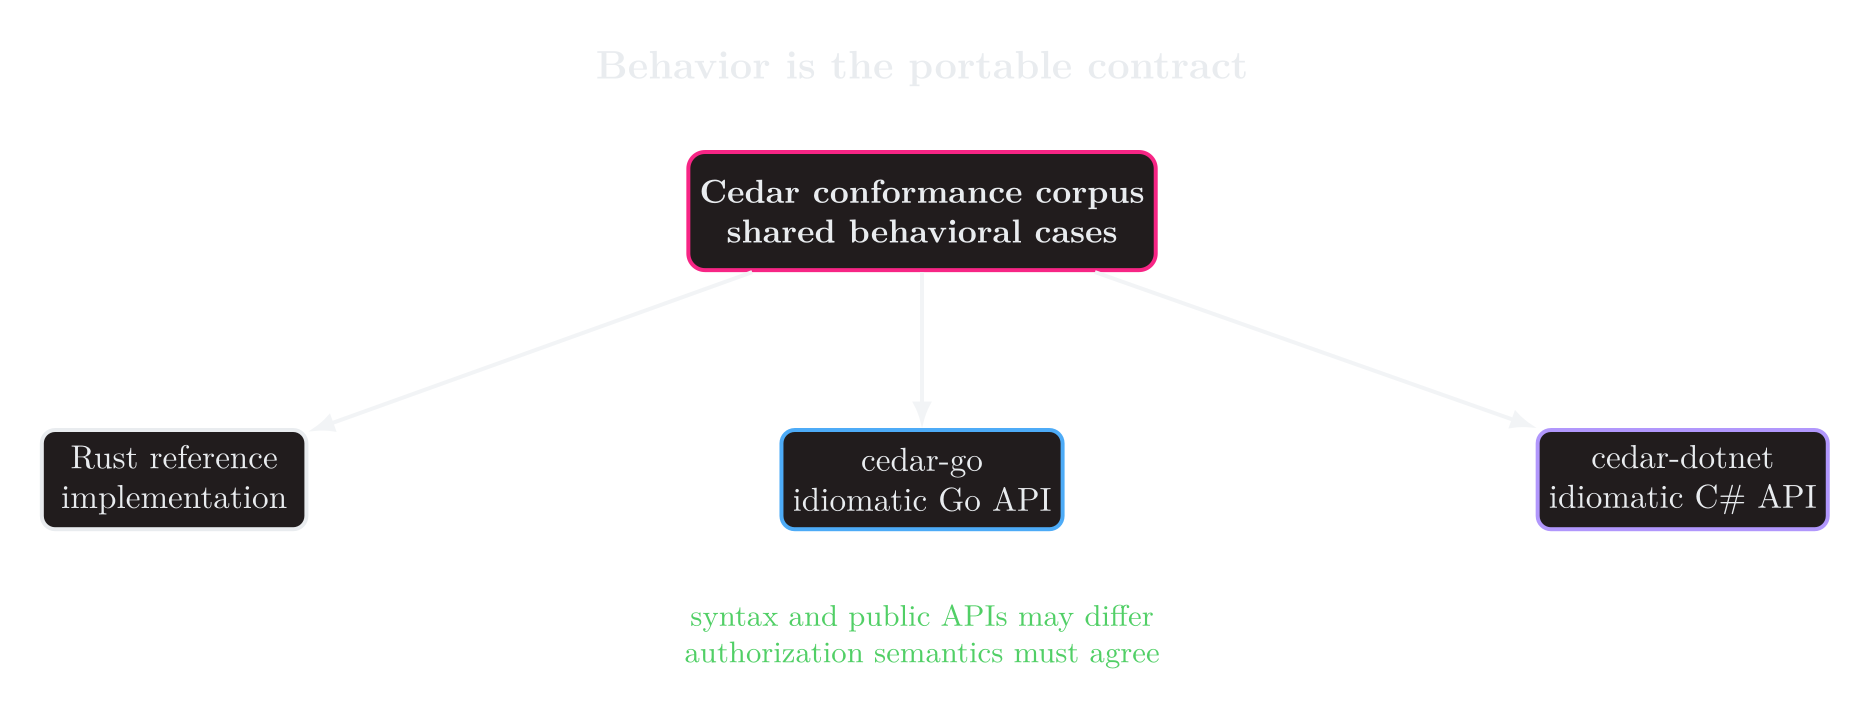
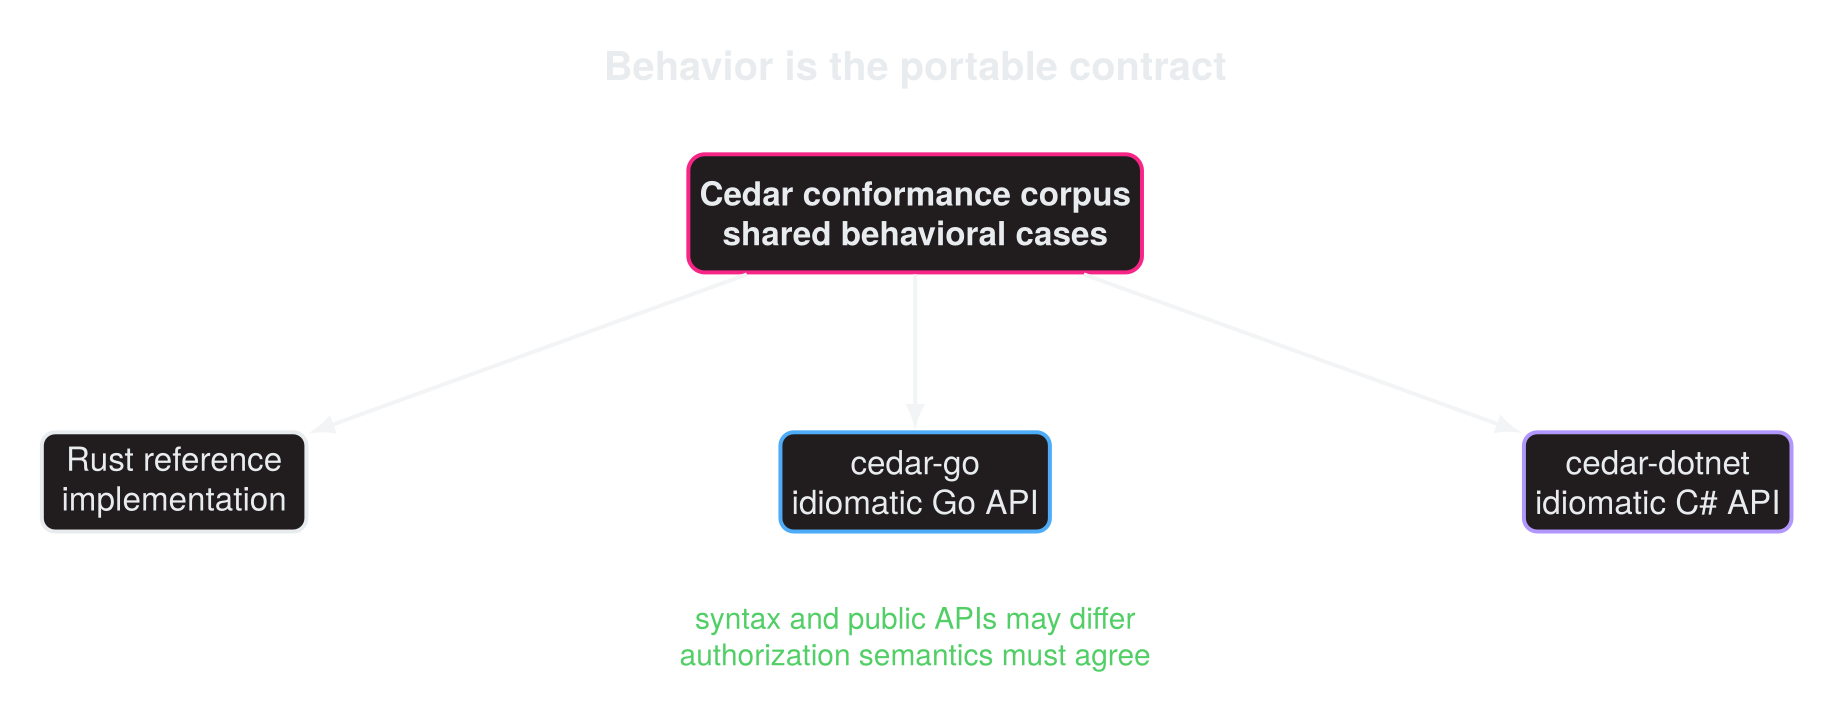
chore: align diagram typography and CI triggers

diff --git a/assets/diagrams/degradation/degradation-vs-promotion.tex b/assets/diagrams/degradation/degradation-vs-promotion.tex
@@ -1,4 +1,5 @@
 \documentclass[tikz,border=12pt]{standalone}
+\input{../site-font}
 \usetikzlibrary{arrows.meta,positioning}
 \definecolor{pink}{HTML}{F72585}\definecolor{green}{HTML}{51CF66}\definecolor{amber}{HTML}{FCC419}
 \definecolor{red}{HTML}{FF6B6B}\definecolor{blue}{HTML}{4DABF7}\definecolor{ink}{HTML}{E9ECEF}\definecolor{panel}{HTML}{211C1D}

diff --git a/assets/diagrams/cedar/conformance.tex b/assets/diagrams/cedar/conformance.tex
@@ -1,4 +1,5 @@
 \documentclass[tikz,border=12pt]{standalone}
+\input{../site-font}
 \usetikzlibrary{arrows.meta,positioning}
 \definecolor{pink}{HTML}{F72585}\definecolor{blue}{HTML}{4DABF7}\definecolor{green}{HTML}{51CF66}\definecolor{violet}{HTML}{B197FC}\definecolor{ink}{HTML}{E9ECEF}\definecolor{panel}{HTML}{211C1D}
 \begin{document}

diff --git a/assets/diagrams/mixology/lesson-map.tex b/assets/diagrams/mixology/lesson-map.tex
@@ -1,4 +1,5 @@
 \documentclass[tikz,border=12pt]{standalone}
+\input{../site-font}
 \usetikzlibrary{arrows.meta,positioning}
 \definecolor{pink}{HTML}{F72585}\definecolor{blue}{HTML}{4DABF7}\definecolor{green}{HTML}{51CF66}\definecolor{violet}{HTML}{B197FC}\definecolor{ink}{HTML}{E9ECEF}\definecolor{panel}{HTML}{211C1D}
 \begin{document}

diff --git a/assets/diagrams/columnar-pipeline/snapshot-flow.tex b/assets/diagrams/columnar-pipeline/snapshot-flow.tex
@@ -1,4 +1,5 @@
 \documentclass[tikz,border=12pt]{standalone}
+\input{../site-font}
 \usetikzlibrary{arrows.meta,positioning,fit}
 \definecolor{pink}{HTML}{F72585}\definecolor{blue}{HTML}{4DABF7}\definecolor{green}{HTML}{51CF66}
 \definecolor{amber}{HTML}{FCC419}\definecolor{ink}{HTML}{E9ECEF}\definecolor{panel}{HTML}{211C1D}

diff --git a/assets/diagrams/illegal-states/state-space.tex b/assets/diagrams/illegal-states/state-space.tex
@@ -1,4 +1,5 @@
 \documentclass[tikz,border=12pt]{standalone}
+\input{../site-font}
 \usetikzlibrary{arrows.meta,positioning}
 \definecolor{pink}{HTML}{F72585}\definecolor{green}{HTML}{51CF66}\definecolor{red}{HTML}{FF6B6B}
 \definecolor{blue}{HTML}{4DABF7}\definecolor{ink}{HTML}{E9ECEF}\definecolor{panel}{HTML}{211C1D}

diff --git a/assets/diagrams/linear-algebra/dimensions.tex b/assets/diagrams/linear-algebra/dimensions.tex
@@ -1,4 +1,5 @@
 \documentclass[tikz,border=12pt]{standalone}
+\input{../site-font}
 \usetikzlibrary{arrows.meta,positioning}
 \definecolor{pink}{HTML}{F72585}\definecolor{blue}{HTML}{4DABF7}\definecolor{green}{HTML}{51CF66}
 \definecolor{red}{HTML}{FF6B6B}\definecolor{ink}{HTML}{E9ECEF}\definecolor{panel}{HTML}{211C1D}

diff --git a/assets/diagrams/actions/action-states.tex b/assets/diagrams/actions/action-states.tex
@@ -1,4 +1,5 @@
 \documentclass[tikz,border=12pt]{standalone}
+\input{../site-font}
 \usetikzlibrary{arrows.meta,positioning}
 \definecolor{pink}{HTML}{F72585}\definecolor{green}{HTML}{51CF66}\definecolor{gray}{HTML}{ADB5BD}\definecolor{ink}{HTML}{E9ECEF}\definecolor{panel}{HTML}{211C1D}
 \begin{document}

diff --git a/assets/diagrams/fluid/staggered-grid.tex b/assets/diagrams/fluid/staggered-grid.tex
@@ -1,4 +1,5 @@
 \documentclass[tikz,border=12pt]{standalone}
+\input{../site-font}
 \usetikzlibrary{arrows.meta,positioning}
 \definecolor{pink}{HTML}{F72585}\definecolor{blue}{HTML}{4DABF7}\definecolor{green}{HTML}{51CF66}\definecolor{ink}{HTML}{E9ECEF}\definecolor{panel}{HTML}{211C1D}
 \begin{document}

diff --git a/assets/diagrams/linux/filesystem-tree.tex b/assets/diagrams/linux/filesystem-tree.tex
@@ -1,4 +1,5 @@
 \documentclass[tikz,border=12pt]{standalone}
+\input{../site-font}
 \usetikzlibrary{arrows.meta,positioning}
 \definecolor{pink}{HTML}{F72585}\definecolor{blue}{HTML}{4DABF7}\definecolor{green}{HTML}{51CF66}\definecolor{ink}{HTML}{E9ECEF}\definecolor{panel}{HTML}{211C1D}
 \begin{document}

diff --git a/assets/diagrams/arch-lint/enforced-boundary.tex b/assets/diagrams/arch-lint/enforced-boundary.tex
@@ -1,4 +1,5 @@
 \documentclass[tikz,border=12pt]{standalone}
+\input{../site-font}
 \usetikzlibrary{arrows.meta,positioning}
 \definecolor{green}{HTML}{51CF66}\definecolor{red}{HTML}{FF6B6B}\definecolor{blue}{HTML}{4DABF7}\definecolor{ink}{HTML}{E9ECEF}\definecolor{panel}{HTML}{211C1D}
 \begin{document}

diff --git a/assets/diagrams/octonions/fano-plane.tex b/assets/diagrams/octonions/fano-plane.tex
@@ -1,4 +1,5 @@
 \documentclass[tikz,border=12pt]{standalone}
+\input{../site-font}
 \usetikzlibrary{calc}
 \definecolor{pink}{HTML}{F72585}\definecolor{blue}{HTML}{4DABF7}
 \definecolor{violet}{HTML}{B197FC}\definecolor{ink}{HTML}{E9ECEF}\definecolor{panel}{HTML}{211C1D}

diff --git a/assets/diagrams/site-font.tex b/assets/diagrams/site-font.tex
@@ -1,0 +1,5 @@
+% Match the sans-serif font stack used by the Minimal Mistakes site theme.
+% TeX Gyre Heros is the TeX-compatible Helvetica implementation.
+\usepackage[T1]{fontenc}
+\usepackage{tgheros}
+\renewcommand{\familydefault}{\sfdefault}
